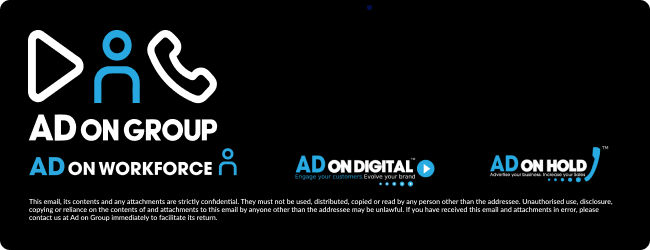
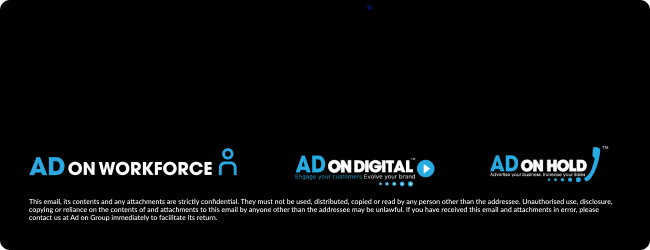
fix: changed the adon-bg to the normal

Changed region(s): [[0.0308, 0.112, 0.3385, 0.42], [0.0308, 0.448, 0.3385, 0.56]]

diff --git a/utils/signatureGenerator.ts b/utils/signatureGenerator.ts
@@ -10,35 +10,36 @@ export const generateOutlookSignature = (
   class="sig-cont"
   cellpadding="0"
   cellspacing="0"
+  width="100%"
   style="
     background-color: #000;
     color: #fff;
     border-radius: 15px;
     padding: 20px;
-    width: 650px;
+    width: auto;
+    max-width: 650px;
     background-image: url('https://raw.githubusercontent.com/noucodes/adon-email/refs/heads/main/public/adon-bg.png');
     background-repeat: no-repeat;
-    background-position: center;
+    background-position: contain;
     font-family: Arial, sans-serif;
   "
 >
   <tr style="vertical-align: top;">
     <td
       class="aog-logo"
-      style="width: 35%; padding: 10px 10px 10px 20px; vertical-align: top;"
+      style="width: 270px; padding: 10px 10px 10px 20px; vertical-align: top;"
     >
-      
     </td>
 
-    <td style="width: 65%; padding: 10px 10px 10px 0; vertical-align: top;">
+    <td style="width: 60%; padding: 20px 10px 10px 0; vertical-align: top;">
       <div
         class="name-position-cont"
-        style="font-size: 21px; margin-bottom: 10px;"
+        style="font-size: 1.4em; margin-bottom: 10px;"
       >
-        <p style="line-height: 1.4; font-weight: 700; margin: 0;">
+        <p style="line-height: 1.2; font-weight: 700; margin: 0;">
           ${data.name}
         </p>
-        <p style="font-size: 12px; margin: 0;">${data.title}</p>
+        <p style="font-size: .5em; margin: 0;">${data.title}</p>
       </div>
 
       <div class="links-cont" style="line-height: 1.2;">
@@ -52,7 +53,7 @@ export const generateOutlookSignature = (
             />
             <a
               href="tel:${data.phone}"
-              style="font-size: 12px; color: #fff; text-decoration: none; display: inline-block; vertical-align: middle;"
+              style="font-size: .8em; color: #fff; text-decoration: none; display: inline-block; vertical-align: middle;"
             >
               ${data.phone}
             </a>
@@ -70,7 +71,7 @@ export const generateOutlookSignature = (
             />
             <a
               href="https://adongroup.com.au/"
-              style="font-size: 12px; color: #fff; text-decoration: none; display: inline-block; vertical-align: middle;"
+              style="font-size: .8em; color: #fff; text-decoration: none; display: inline-block; vertical-align: middle;"
             >
               ${data.website1}
             </a>
@@ -88,7 +89,7 @@ export const generateOutlookSignature = (
             />
             <a
               href="https://adonworkforce.com.au/"
-              style="font-size: 12px; color: #fff; text-decoration: none; display: inline-block; vertical-align: middle;"
+              style="font-size: .8em; color: #fff; text-decoration: none; display: inline-block; vertical-align: middle;"
             >
               ${data.website2}
             </a>
